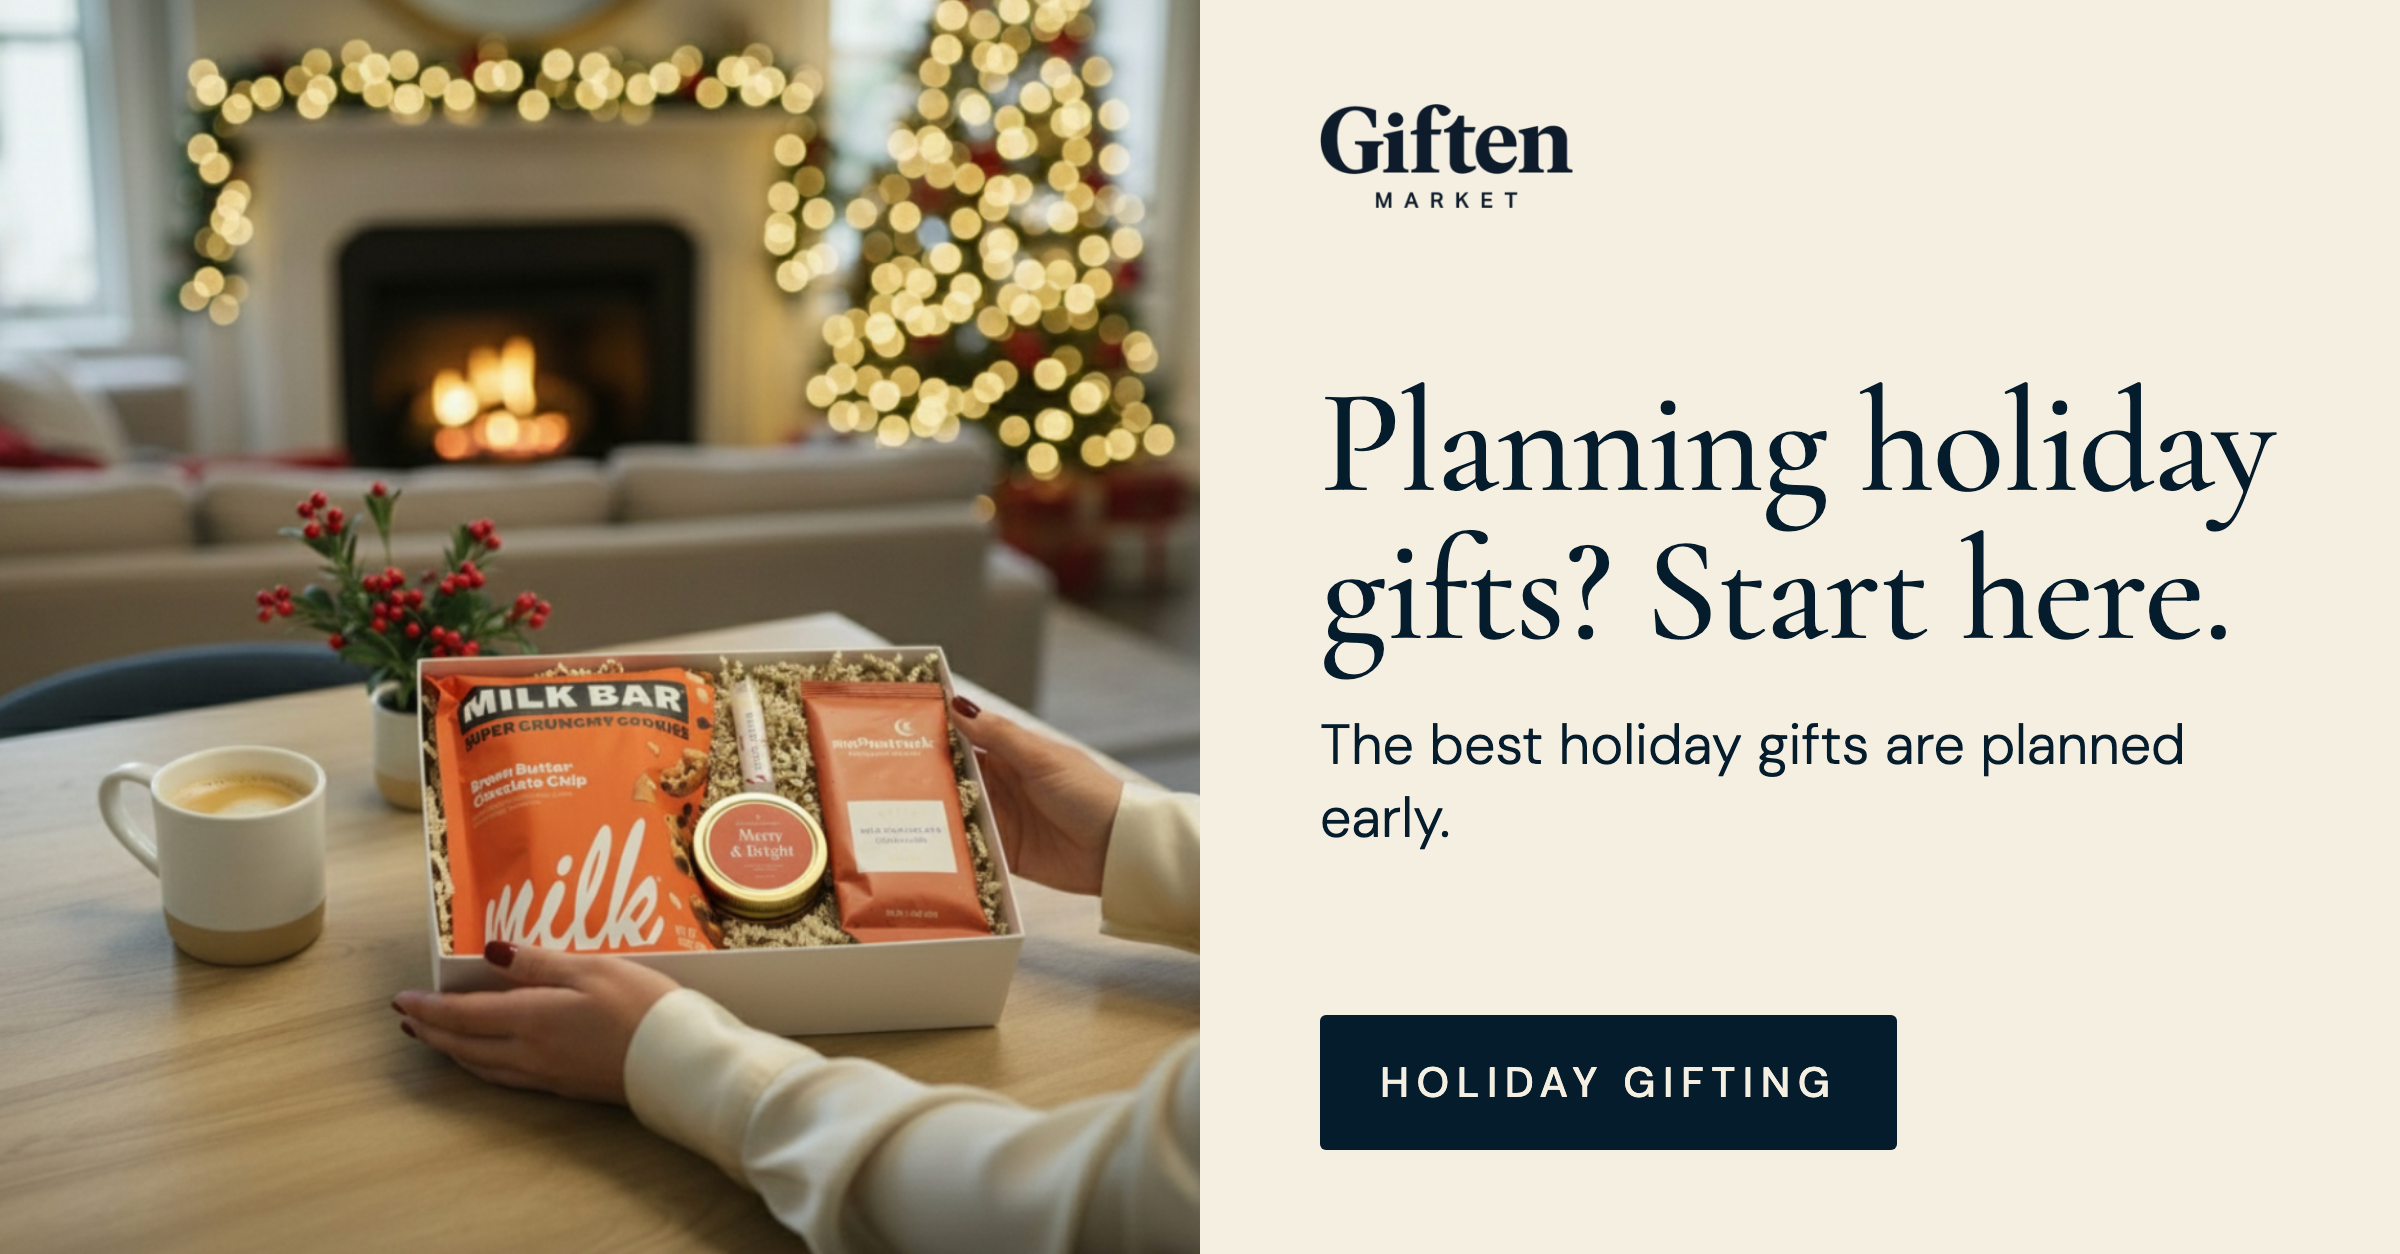
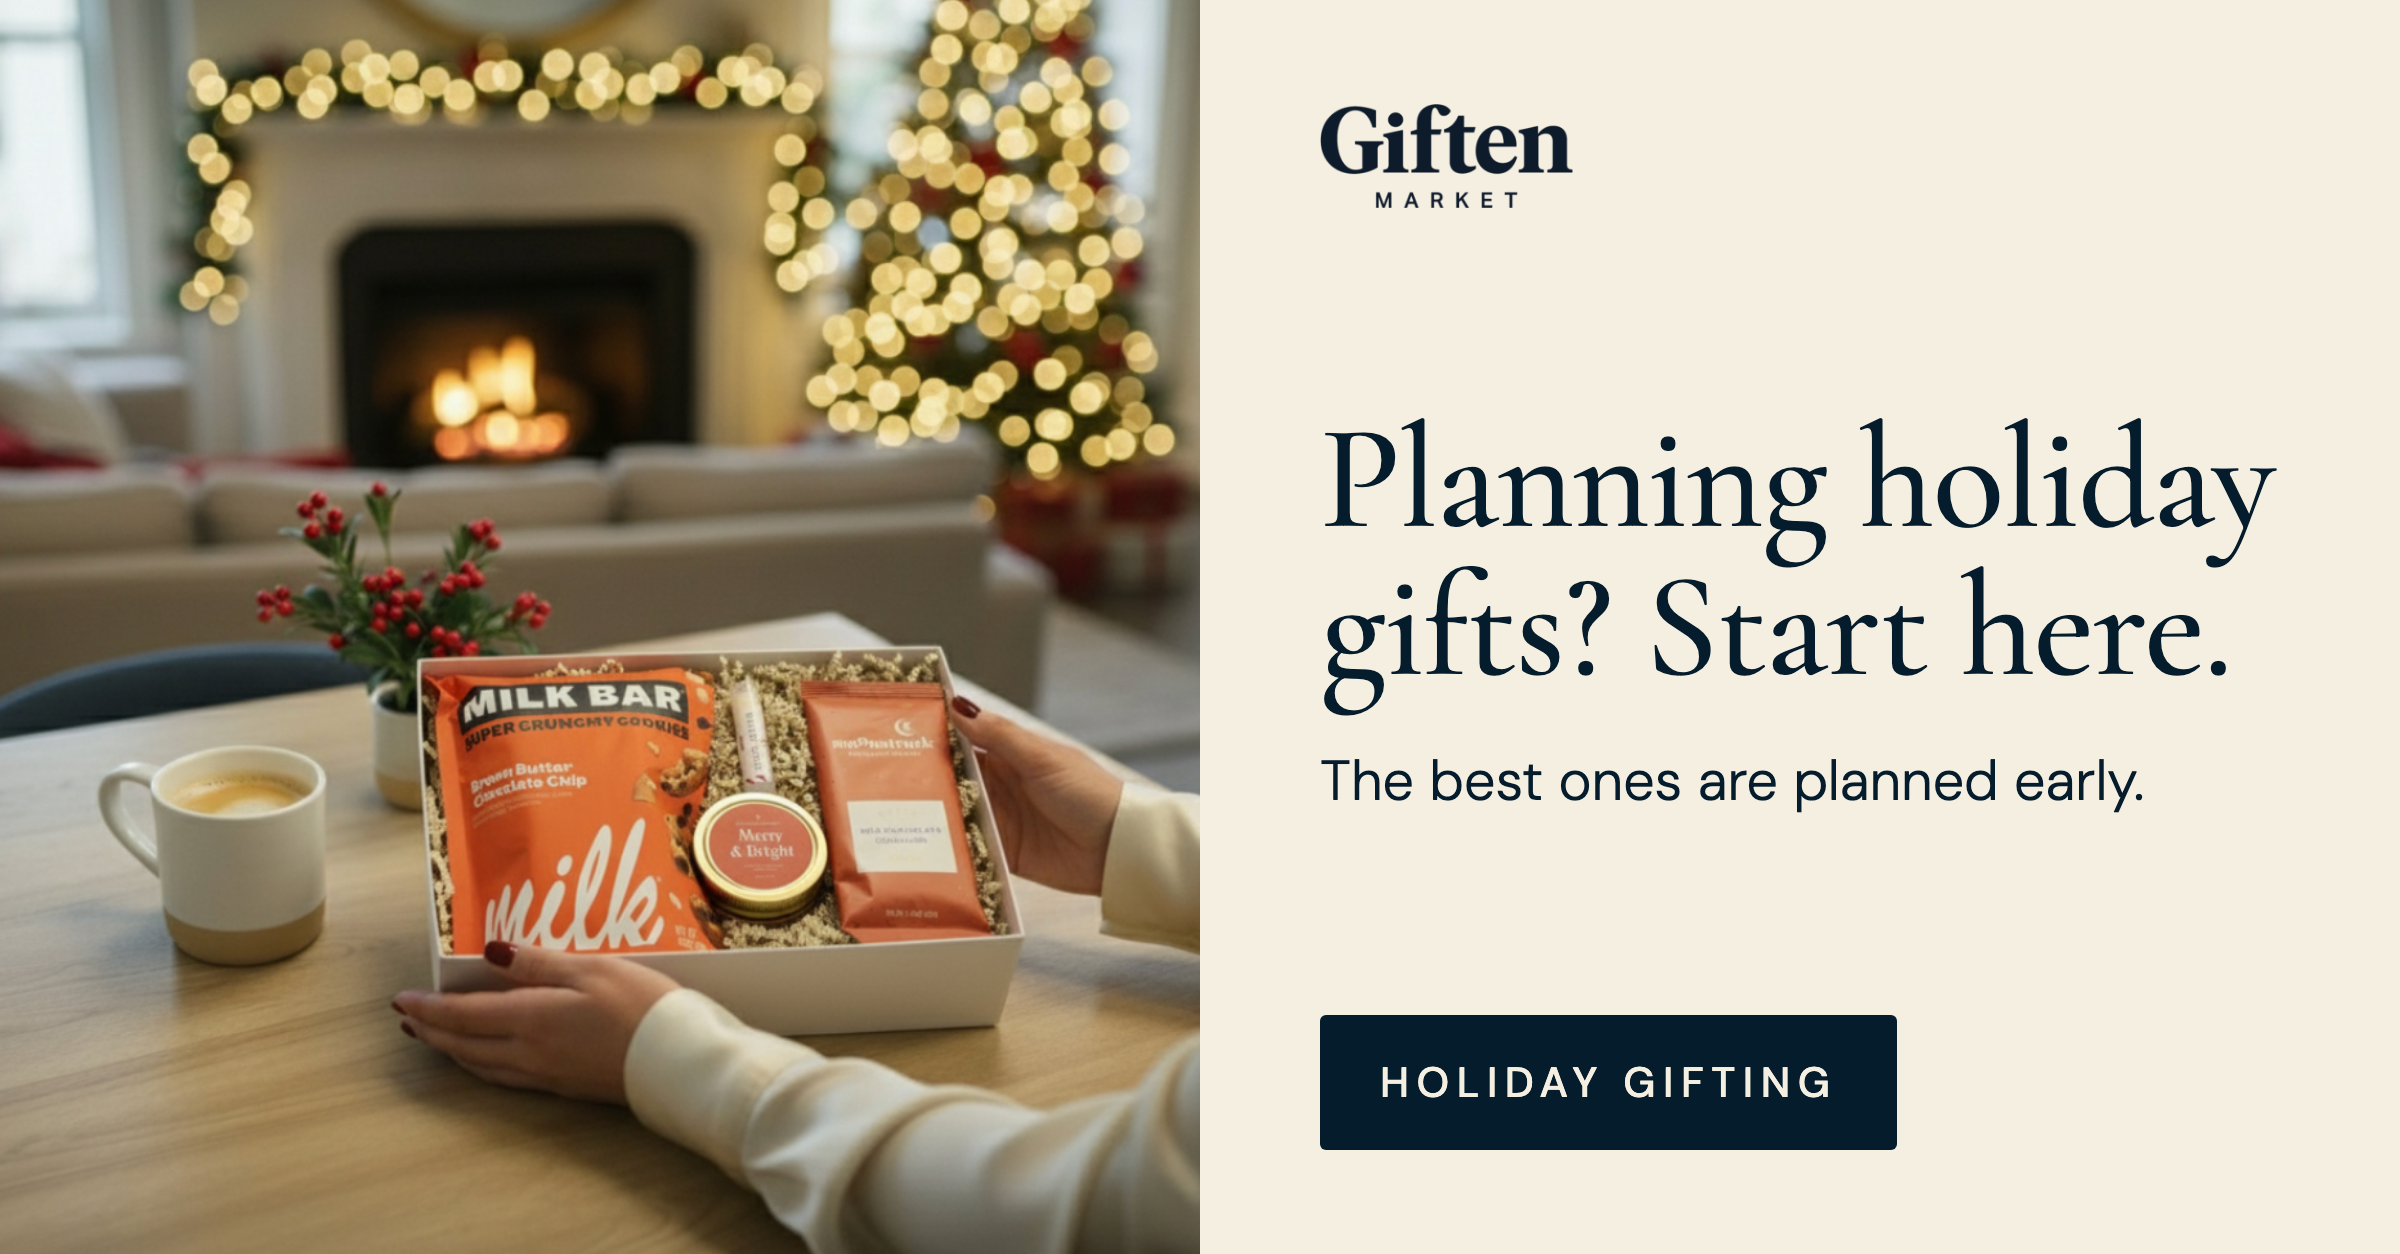
Holiday tile: tighten support line

Changed region(s): [[0.5312, 0.311, 0.9688, 0.6842]]

diff --git a/tiles/tile2.html b/tiles/tile2.html
@@ -15,5 +15,5 @@ p{font-weight:300;font-size:28px;line-height:1.3;margin:0}
 </style></head><body><div class="wrap">
 <div class="photo"><img src="src/t2.png"></div>
 <div class="panel"><div class="logo"><img src="src/logo.png"></div>
-<div><h1>Planning holiday gifts? Start here.</h1><p>The best holiday gifts are planned early.</p></div>
+<div><h1>Planning holiday gifts? Start here.</h1><p>The best ones are planned early.</p></div>
 <div class="btn">Holiday gifting</div></div></div></body></html>

diff --git a/tiles/build.py b/tiles/build.py
@@ -3,7 +3,7 @@ S = pathlib.Path(__file__).resolve().parent
 CHROME = "/Applications/Google Chrome.app/Contents/MacOS/Google Chrome"
 tiles = [
  dict(n=1, slug="corporate-gifting", img="t1.png", pos="40% 50%", h="Need to send a lot of gifts?", s="Corporate gifting, without the scramble.", cta="Corporate gifting", logo=True),
- dict(n=2, slug="holiday-2026", img="t2.png", pos="50% 62%", h="Planning holiday gifts? Start here.", s="The best holiday gifts are planned early.", cta="Holiday gifting", logo=True),
+ dict(n=2, slug="holiday-2026", img="t2.png", pos="50% 62%", h="Planning holiday gifts? Start here.", s="The best ones are planned early.", cta="Holiday gifting", logo=True),
  dict(n=3, slug="build-your-own", img="t3.jpg", pos="50% 30%", h="Build a gift they’ll actually want.", s="Choose the products. We’ll make it beautiful.", cta="Build your own", logo=True),
  dict(n=4, slug="meet-martha", img="t4.png", pos="50% 40%", h="75,000+ gifts later, I have opinions.", s="Founder notes on gifting that actually gets used.", cta="Meet Martha", logo=False),
 ]
